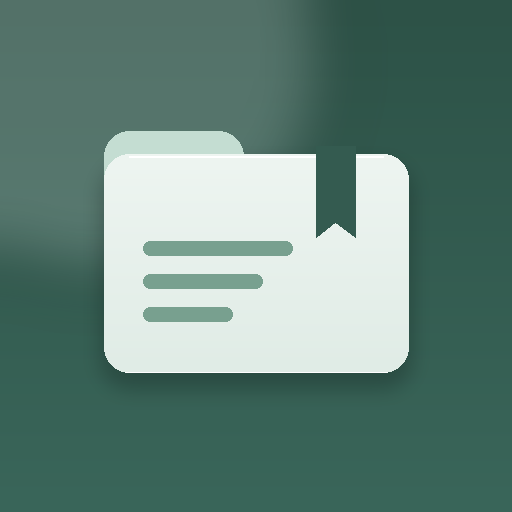
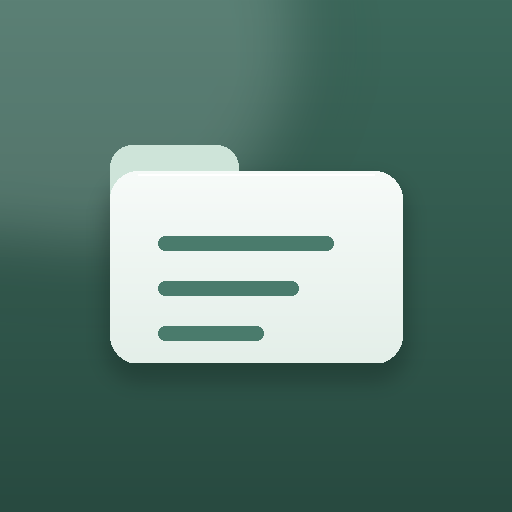
Add files via upload

Changed region(s): [[0.1875, 0.25, 0.8125, 0.75], [0.0, 0.9062, 1.0, 1.0]]

diff --git a/sw.js b/sw.js
@@ -1,4 +1,4 @@
-const CACHE = 'study-org-v9';
+const CACHE = 'study-org-v10';
 const SHELL = ['./','index.html','manifest.json','icon-192.png','icon-512.png'];   // 外壳：必定存在
 self.addEventListener('install', e => {
   e.waitUntil(caches.open(CACHE).then(c => c.addAll(SHELL)).then(() => self.skipWaiting()));